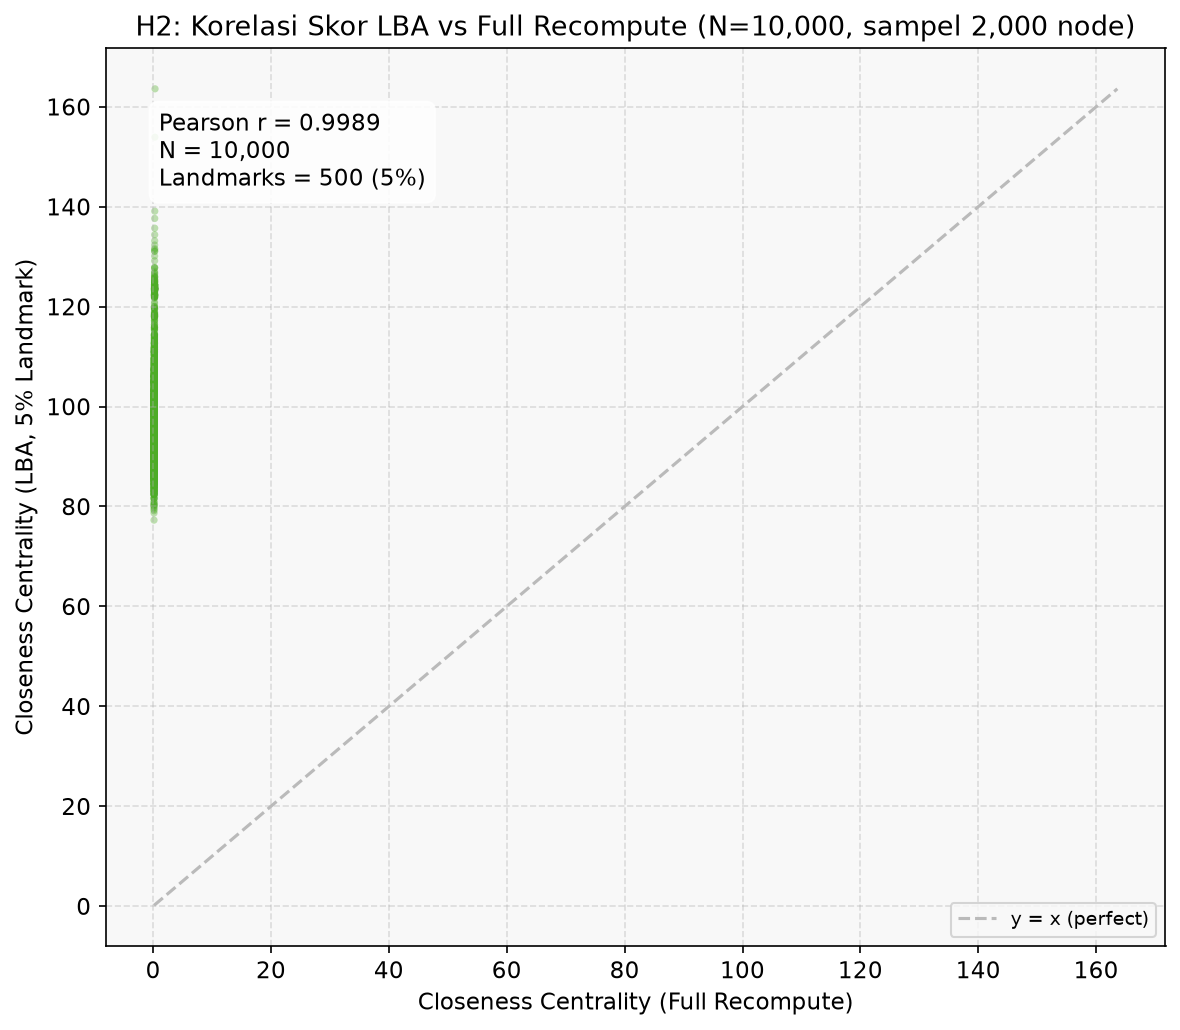
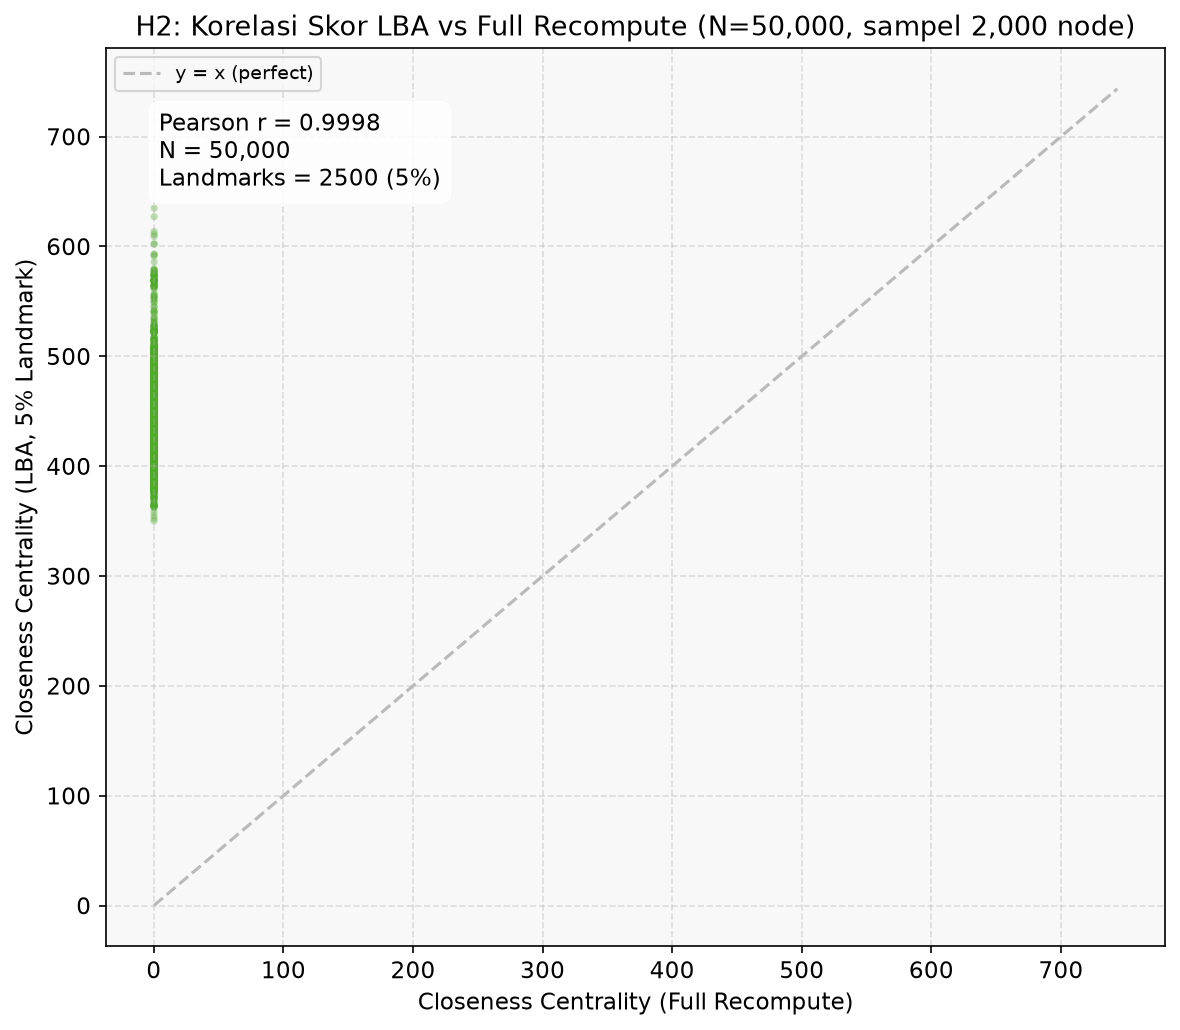
pembaruan untuk visualisasi pada gambar

diff --git a/sna_framework/analysis/visualize_h4.py b/sna_framework/analysis/visualize_h4.py
@@ -340,6 +340,52 @@ def _fig_pvalue_significance(df_sum: pd.DataFrame, out_path: Path) -> None:
     print(f"  Saved: {out_path.name}")
 
 
+def _fig_same_node_pct(df_sum: pd.DataFrame, out_path: Path) -> None:
+    """Generate same_node percentage bar chart per N and failure_rate."""
+    fig, ax = plt.subplots(figsize=(8, 5))
+    
+    N_vals = sorted(df_sum["N"].unique())
+    fr_vals = sorted(df_sum["failure_rate"].unique())
+    
+    x = np.arange(len(N_vals))
+    width = 0.25
+    
+    colors = ["#7fcdbb", "#41b6c4", "#081d58"]
+    
+    for i, fr in enumerate(fr_vals):
+        pcts = []
+        for N in N_vals:
+            sub = df_sum[(df_sum["N"] == N) & (df_sum["failure_rate"] == fr)]
+            if len(sub) > 0:
+                pcts.append(sub["pct_same_node"].iloc[0])
+            else:
+                pcts.append(0.0)
+        ax.bar(x + (i - 1) * width, pcts, width, label=f"Fail {int(fr*100)}%", color=colors[i])
+        
+    ax.set_xlabel("Ukuran Graf (N)", fontsize=11)
+    ax.set_ylabel("Persentase Seed Sama (%)", fontsize=11)
+    ax.set_title("H4: Persentase Tumpang Tindih Seed (Closeness == Degree)", fontsize=12, fontweight="bold")
+    ax.set_xticks(x)
+    ax.set_xticklabels([f"N={int(N):,}" for N in N_vals], fontsize=10)
+    ax.set_ylim(0, 110)
+    ax.legend(title="Tingkat Kegagalan", loc="upper left")
+    
+    # Add labels on top of the bars
+    for p in ax.patches:
+        height = p.get_height()
+        if height > 0:
+            ax.annotate(f"{height:.0f}%",
+                        xy=(p.get_x() + p.get_width() / 2, height),
+                        xytext=(0, 3),  # 3 points vertical offset
+                        textcoords="offset points",
+                        ha='center', va='bottom', fontsize=9)
+            
+    fig.tight_layout()
+    fig.savefig(out_path, bbox_inches="tight", dpi=150)
+    plt.close("all")
+    print(f"  Saved: {out_path.name}")
+
+
 # ---------------------------------------------------------------------------
 # Public entry point
 # ---------------------------------------------------------------------------
@@ -349,7 +395,7 @@ def plot_h4_all(
     summary_path: Path | str,
     out_dir: Path | str,
 ) -> None:
-    """Generate all 4 H4 figures and save to out_dir.
+    """Generate all H4 figures and save to out_dir.
 
     Parameters
     ----------
@@ -372,6 +418,8 @@ def plot_h4_all(
         ("h4_closeness_faster_pct.png", _fig_closeness_faster_pct,
          {"df_sum": df_sum}),
         ("h4_pvalue_significance.png", _fig_pvalue_significance,
+         {"df_sum": df_sum}),
+        ("h4_same_node_pct.png", _fig_same_node_pct,
          {"df_sum": df_sum}),
     ]:
         try:

diff --git a/sna_framework/analysis/visualize_h2.py b/sna_framework/analysis/visualize_h2.py
@@ -96,8 +96,8 @@ def _fig_pearson_scatter(out_path: Path, n_scatter: int = 2_000) -> None:
         )
         return
 
-    # Use N=10,000 as representative (faster than 50k, still illustrative)
-    N_REP = 10_000
+    # Use N=50,000 as representative (matching the first scale of the H2 methodology)
+    N_REP = 50_000
     SEED = 42
     print(
         f"  Generating representative scatter (N={N_REP:,}, seed={SEED})...\n"